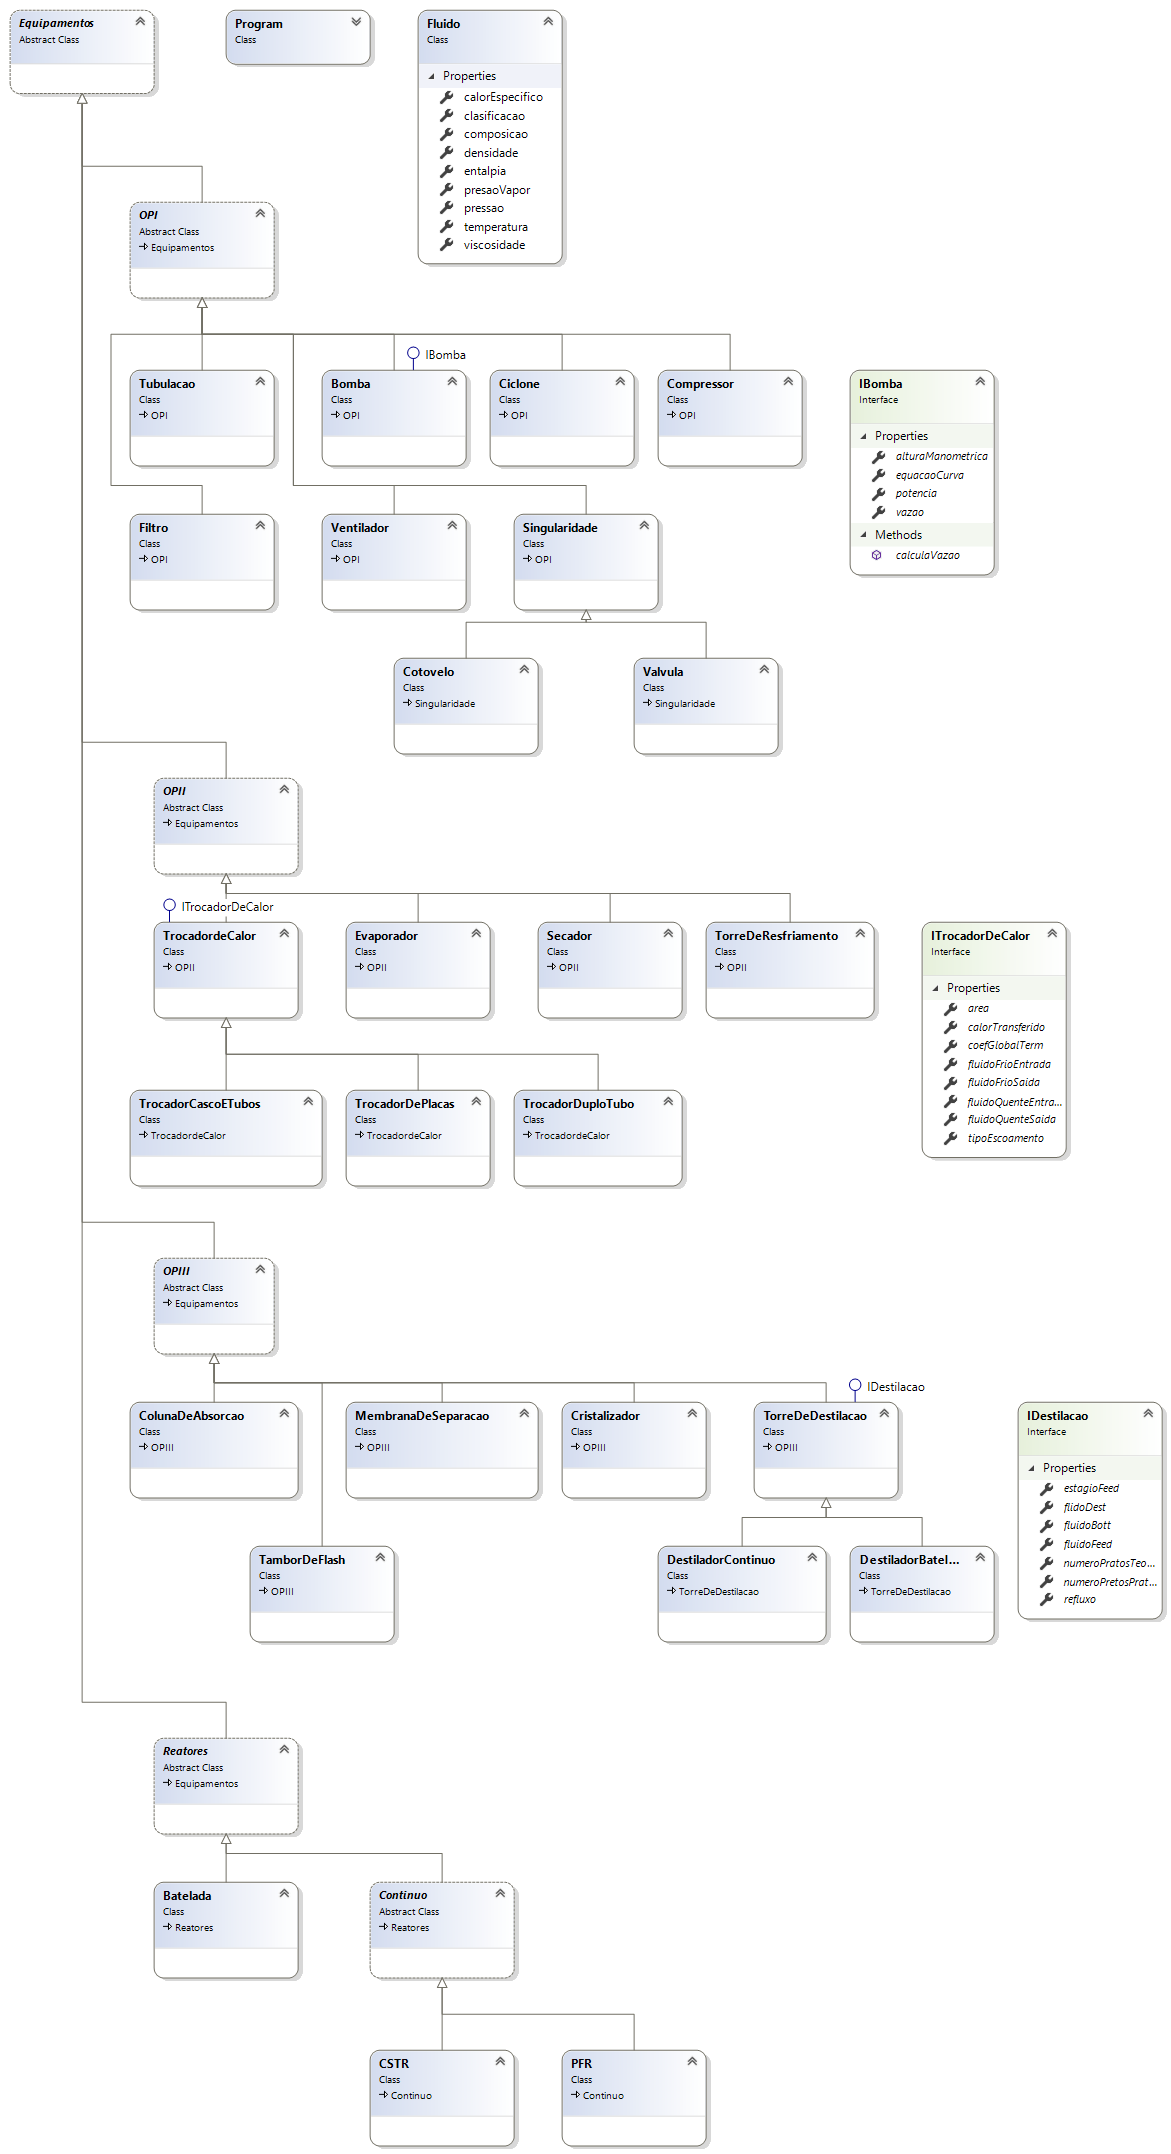
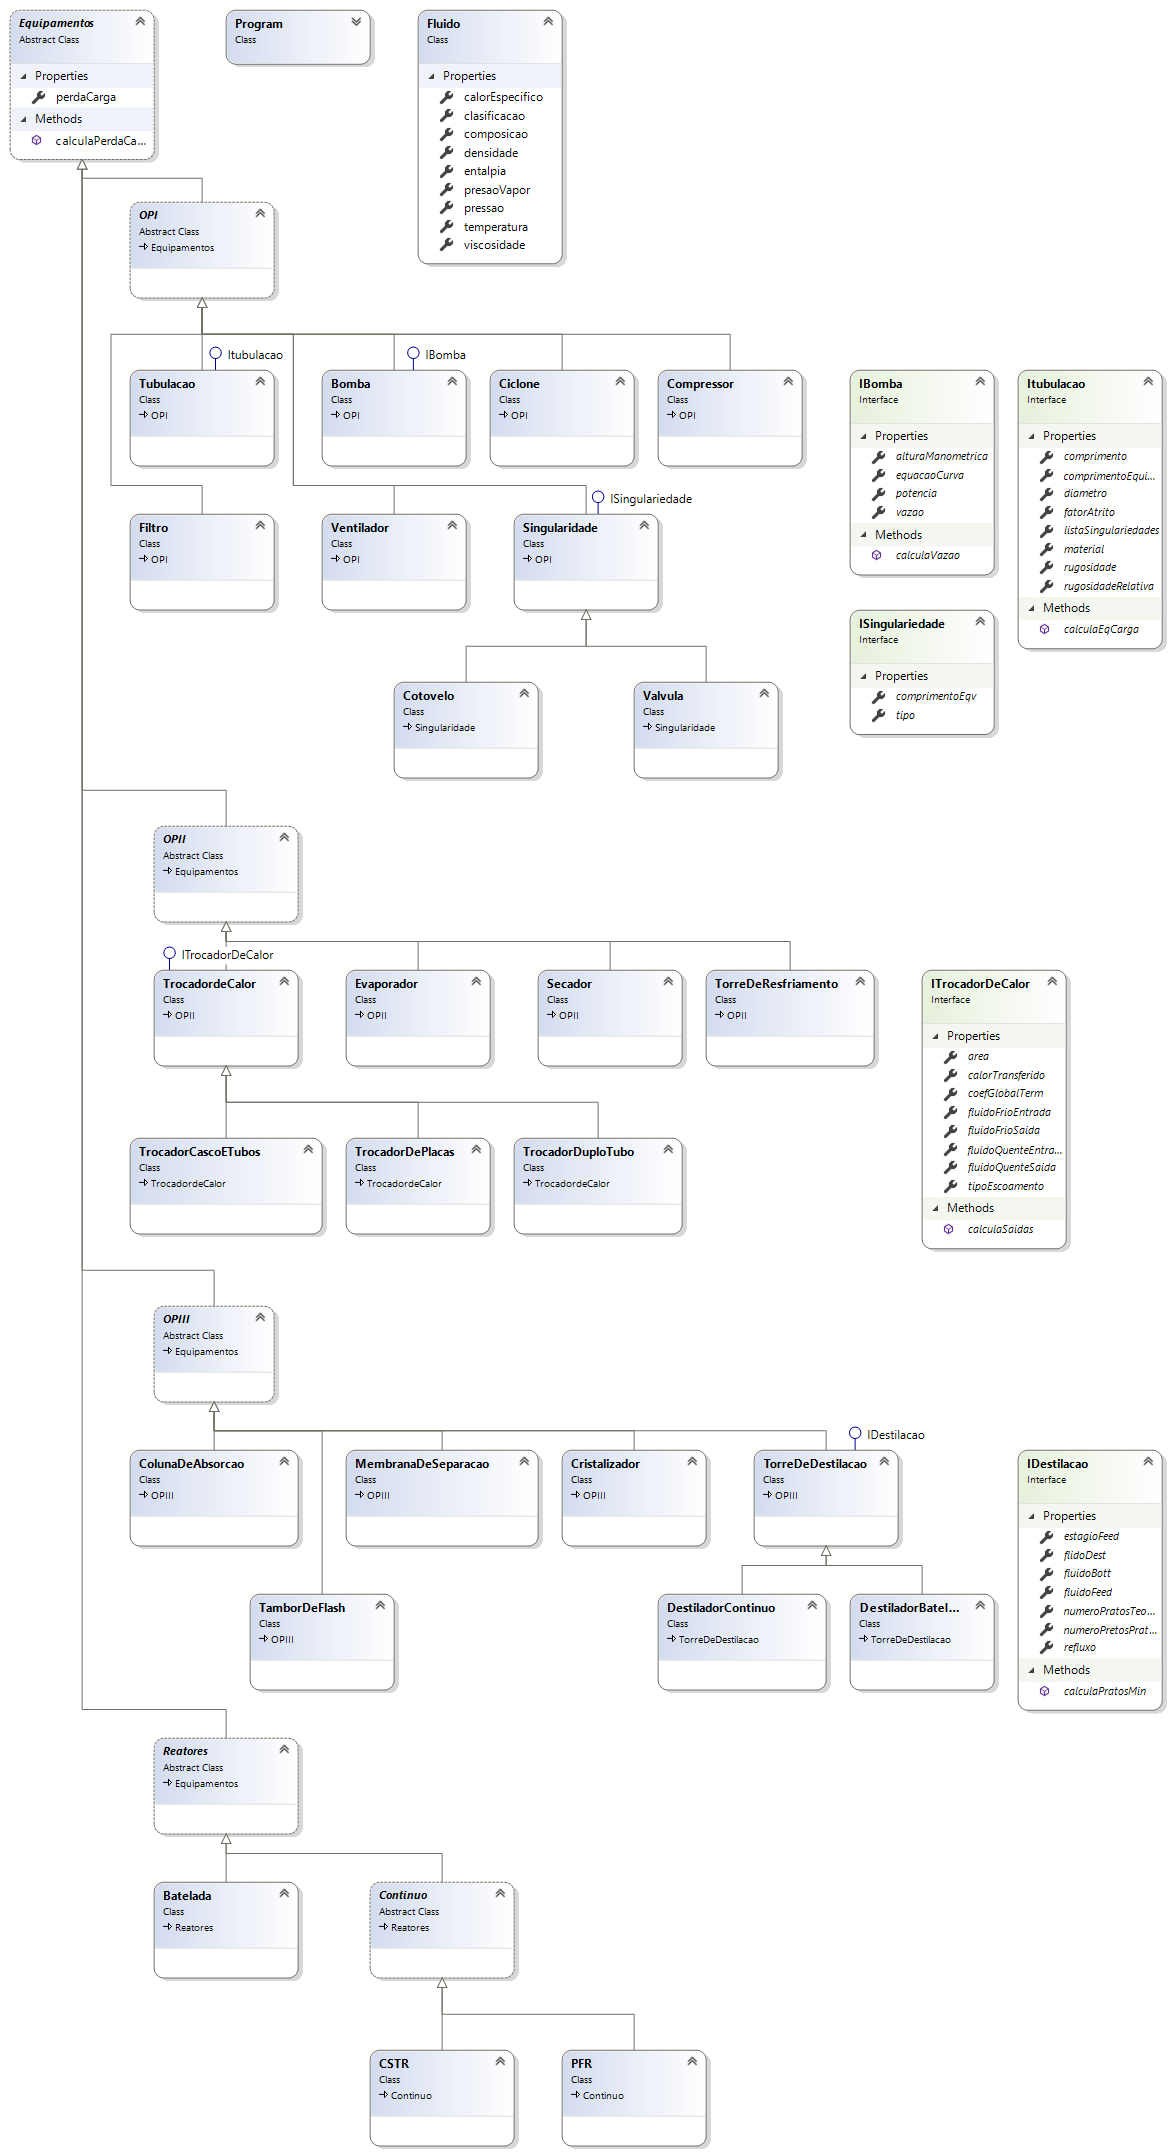
Segunda iteração do diagrama

diff --git a/DiagramaClasse/Itubulacao.cs b/DiagramaClasse/Itubulacao.cs
@@ -1,0 +1,47 @@
+using System;
+using System.Collections.Generic;
+using System.Linq;
+using System.Text;
+
+namespace DiagramaClasse
+{
+    public interface Itubulacao
+    {
+        /// <summary>
+        /// Comprimento da tubulação
+        /// </summary>
+        double comprimento { get; set; }
+        /// <summary>
+        /// Comprimento equivalente das sigularidades
+        /// </summary>
+        double comprimentoEquivalente { get; set; }
+        /// <summary>
+        /// Diametro da tubulação (m)
+        /// </summary>
+        double diametro { get; set; }
+        /// <summary>
+        /// Tipo de material
+        /// </summary>
+        string material { get; set; }
+        /// <summary>
+        /// Rugosidede do material
+        /// </summary>
+        double rugosidade { get; set; }
+        /// <summary>
+        /// Rugosidade relativa do mateira
+        /// </summary>
+        double rugosidadeRelativa { get; set; }
+        /// <summary>
+        /// Fator de atrido na condição de escoamento
+        /// </summary>
+        double fatorAtrito { get; set; }
+        /// <summary>
+        /// Lista de singulariedades na tubulação
+        /// </summary>
+        List<Singularidade> listaSingulariedades { get; set; }
+        /// <summary>
+        /// Calcula a equação da perda de carga em função da velocidade
+        /// </summary>
+        string calculaEqCarga();
+    }
+}

diff --git a/DiagramaClasse/Equipamentos.cs b/DiagramaClasse/Equipamentos.cs
@@ -7,5 +7,23 @@ namespace DiagramaClasse
 {
     internal abstract class Equipamentos
     {
+        /// <summary>
+        /// Perda de carga no equipamento (m)
+        /// </summary>
+        public double perdaCarga
+        {
+            get => default(int);
+            set
+            {
+            }
+        }
+
+        /// <summary>
+        /// Calcula a perda de carga no equpamento
+        /// </summary>
+        public double calculaPerdaCarga()
+        {
+            throw new System.NotImplementedException();
+        }
     }
 }

diff --git a/DiagramaClasse/ITrocadorDeCalor.cs b/DiagramaClasse/ITrocadorDeCalor.cs
@@ -36,8 +36,12 @@ namespace DiagramaClasse
         /// </summary>
         Fluido fluidoQuenteSaida { get; set; }
         /// <summary>
-        /// Calor transferido pelo trocador (J)
+        /// Calor transferido do fluido quente para o frio (W)
         /// </summary>
-        int calorTransferido { get; set; }
+        double calorTransferido { get; set; }
+        /// <summary>
+        /// Calcula o processo de troca térmica no trocador e atualiza suas propriedades
+        /// </summary>
+        void calculaSaidas();
     }
 }

diff --git a/DiagramaClasse/ISingulariedade.cs b/DiagramaClasse/ISingulariedade.cs
@@ -1,0 +1,19 @@
+using System;
+using System.Collections.Generic;
+using System.Linq;
+using System.Text;
+
+namespace DiagramaClasse
+{
+    public interface ISingulariedade
+    {
+        /// <summary>
+        /// Comprimento equivalente da singulariedade
+        /// </summary>
+        double comprimentoEqv { get; set; }
+        /// <summary>
+        /// Tipo da singulariedade
+        /// </summary>
+        string tipo { get; set; }
+    }
+}

diff --git a/DiagramaClasse/IBomba.cs b/DiagramaClasse/IBomba.cs
@@ -23,7 +23,9 @@ namespace DiagramaClasse
         /// Altura monometrica da bomba
         /// </summary>
         double alturaManometrica { get; set; }
-
-        void calculaVazao();
+        /// <summary>
+        /// Calcula a vazão com base na equação da bomba e da tubulação
+        /// </summary>
+        double calculaVazao();
     }
 }

diff --git a/DiagramaClasse/IDestilacao.cs b/DiagramaClasse/IDestilacao.cs
@@ -35,5 +35,10 @@ namespace DiagramaClasse
         /// Esagio de alimentação
         /// </summary>
         int estagioFeed { get; set; }
+
+        /// <summary>
+        /// Calcula o número de pratos teoricos para a condição de refluxo máximo
+        /// </summary>
+        void calculaPratosMin();
     }
 }

diff --git a/DiagramaClasse/Singularidade.cs b/DiagramaClasse/Singularidade.cs
@@ -5,7 +5,7 @@ using System.Text;
 
 namespace DiagramaClasse
 {
-    class Singularidade : OPI
+    class Singularidade : OPI, ISingulariedade
     {
     }
 }

diff --git a/DiagramaClasse/Tubulacao.cs b/DiagramaClasse/Tubulacao.cs
@@ -5,7 +5,7 @@ using System.Text;
 
 namespace DiagramaClasse
 {
-    class Tubulacao : OPI
+    class Tubulacao : OPI, Itubulacao
     {
     }
 }
